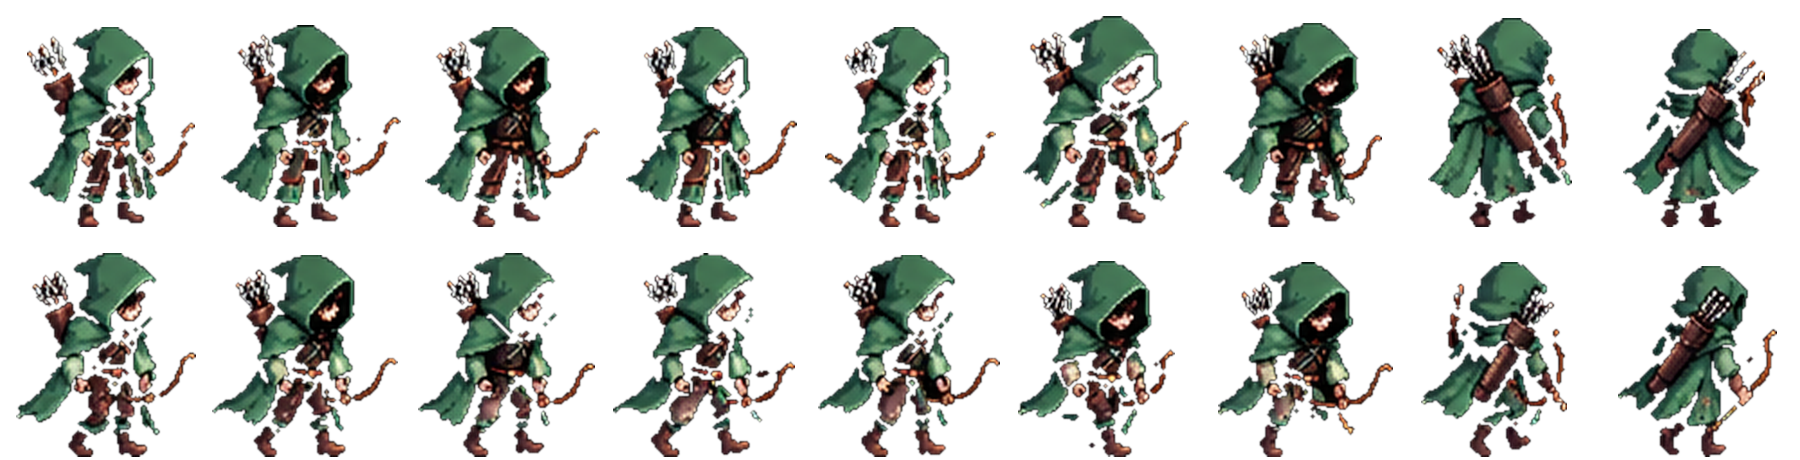
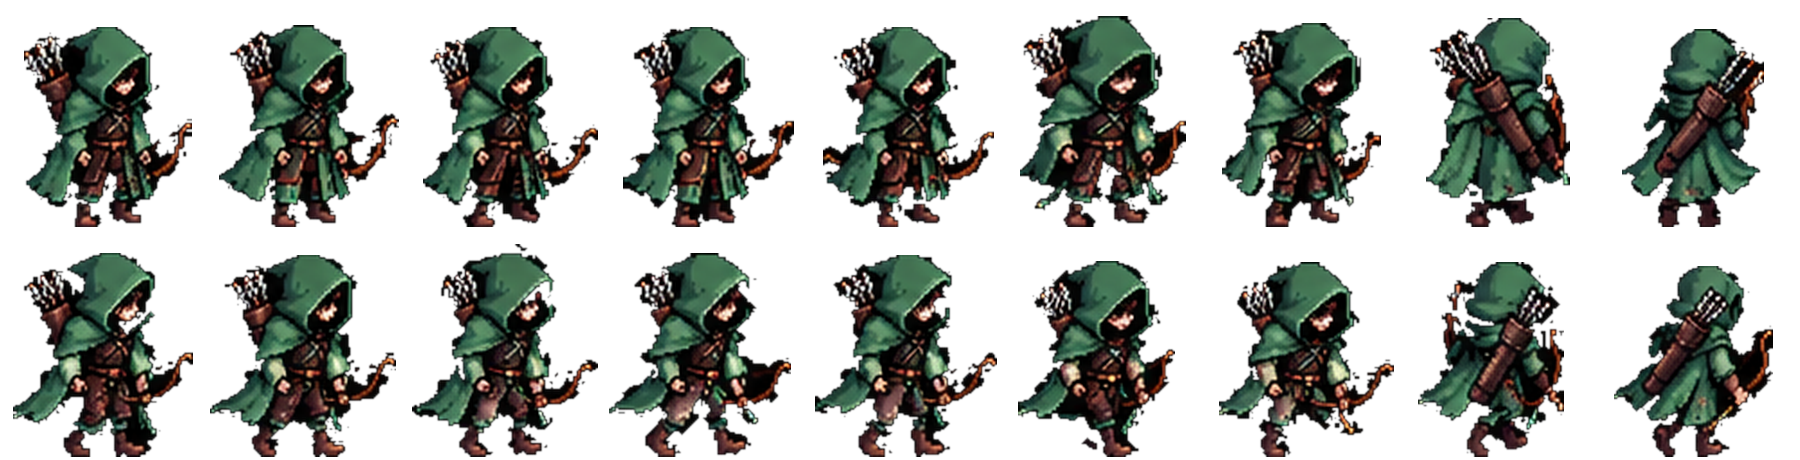
correction des sprites heros

diff --git a/rendu3d.js b/rendu3d.js
@@ -67,7 +67,7 @@ function unit(u,ally){const t=root('u');const isH=u===C.hero;const body=B.MeshBu
 const hd=B.MeshBuilder.CreateSphere('h',{diameter:.42,segments:5},sc);hd.position.y=1.0;hd.parent=t;fin(hd,isH?M.skin:ally?M.cream:mat(u.boss?'#9a3a4a':'#8a5ac0'));
 let spr=null;const SP=isH&&o.sprites&&o.sprites[o.classe];
 if(SP){body.setEnabled(false);hd.setEnabled(false);const H=1.9,pl=B.MeshBuilder.CreatePlane('spr',{width:H*SP.cw/SP.ch,height:H,updatable:true},sc);pl.parent=t;pl.position.y=H/2-.02;pl.billboardMode=B.Mesh.BILLBOARDMODE_Y;
-const tx=new B.Texture(SP.url,sc,true,true,B.Texture.BILINEAR_SAMPLINGMODE,null,()=>{console.error('sprite introuvable',SP.url);pl.dispose();ob.spr=null;body.setEnabled(true);hd.setEnabled(true);try{classProps(t,o.classe,body,hd)}catch(e){}ob.eq=root('eq');ob.eq.parent=t;dress()});
+const tx=new B.Texture(SP.url,sc,false,true,B.Texture.TRILINEAR_SAMPLINGMODE,null,()=>{console.error('sprite introuvable',SP.url);pl.dispose();ob.spr=null;body.setEnabled(true);hd.setEnabled(true);try{classProps(t,o.classe,body,hd)}catch(e){}ob.eq=root('eq');ob.eq.parent=t;dress()});
 tx.hasAlpha=true;tx.wrapU=tx.wrapV=B.Texture.CLAMP_ADDRESSMODE;const sm=new B.StandardMaterial('sm',sc);sm.diffuseTexture=tx;sm.emissiveTexture=tx;sm.disableLighting=true;sm.useAlphaFromDiffuseTexture=true;sm.backFaceCulling=false;sm.transparencyMode=B.Material.MATERIAL_ALPHATESTANDBLEND;sm.alphaCutOff=.08;pl.alwaysSelectAsActiveMesh=true;pl.material=sm;spr={pl,tx,t:0,face:1,dir:'side',uv0:pl.getVerticesData(B.VertexBuffer.UVKind).slice(),key:''}}
 let eq=null;if(isH&&!spr){eq=root('eq');eq.parent=t;try{classProps(t,o.classe,body,hd)}catch(e){console.error('classe 3D',e)}}
 const l=document.createElement('div');l.className='lab'+(isH?' h':'');l.innerHTML='<span></span><div class=bar><i></i></div>';o.labels.appendChild(l);
